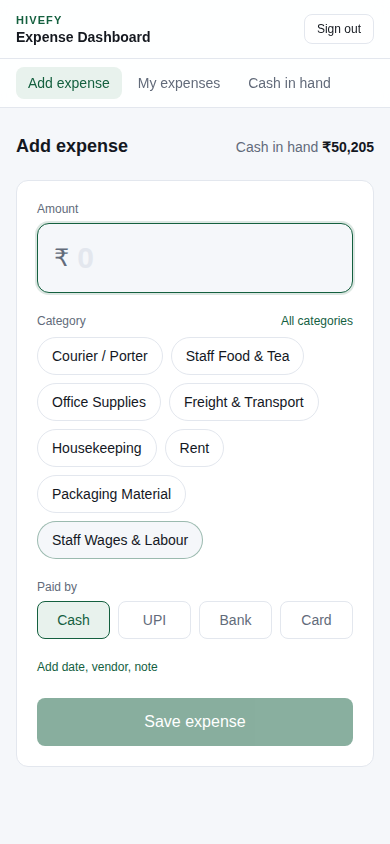
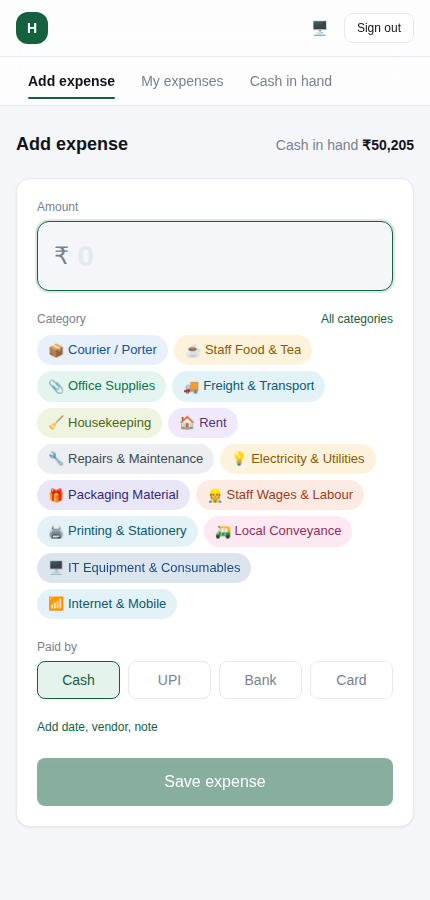
Rank entry categories by real usage and make the chips compact
The quick-pick chips were ranked on the signed-in user's own entries from the
last 90 days. After the import those rows belong to the placeholder accounts
the importer created, so a real warehouse or head-office login had no history
of its own and fell back to an arbitrary seed order - which is what made the
picker look unsorted.

Ranking now runs on the whole cost centre's history, with the last 120 days
weighted more heavily than the rest, so the order is useful on first sign-in
and tracks what the team is booking now. Warehouse leads with Courier / Porter
(51 entries), Staff Food & Tea (16), Office Supplies (11); head office leads
with Staff Food & Tea (22), Courier / Porter (8).

The chips are smaller - tighter padding, 13px, single line - so 14 fit in the
space 8 used, and the form still lands on one phone screen with no scrolling.

Claude-Session: https://claude.ai/code/session_01QidiE69ZLWQEvuWqcvgLKn

diff --git a/src/components/EntryForm.tsx b/src/components/EntryForm.tsx
@@ -35,7 +35,7 @@ export default function EntryForm({ categories }: { categories: CatOption[] }) {
 
   const cat = categories.find((c) => c.id === catId);
   const amt = parseFloat(amount) || 0;
-  const quick = useMemo(() => categories.slice(0, 8), [categories]);
+  const quick = useMemo(() => categories.slice(0, 14), [categories]);
 
   const filtered = useMemo(() => {
     const t = q.trim().toLowerCase();
@@ -79,7 +79,7 @@ export default function EntryForm({ categories }: { categories: CatOption[] }) {
         </div>
 
         {!showAll ? (
-          <div className="mt-2 flex flex-wrap gap-2">
+          <div className="mt-2 flex flex-wrap gap-1.5">
             {quick.map((c) => (
               <Chip key={c.id} active={catId === c.id} color={c.color} icon={c.icon}
                     onClick={() => setCatId(c.id)}>{c.name}</Chip>
@@ -89,11 +89,11 @@ export default function EntryForm({ categories }: { categories: CatOption[] }) {
           <div className="mt-2">
             <input value={q} onChange={(e) => setQ(e.target.value)} placeholder="Search category…"
                    className="input mb-3" aria-label="Search category" />
-            <div className="max-h-72 space-y-3 overflow-y-auto pr-1">
+            <div className="max-h-80 space-y-3 overflow-y-auto pr-1">
               {filtered.map(([group, items]) => (
                 <div key={group}>
                   <p className="mb-1.5 text-[11px] font-semibold uppercase tracking-wide text-muted">{group}</p>
-                  <div className="flex flex-wrap gap-2">
+                  <div className="flex flex-wrap gap-1.5">
                     {items.map((c) => (
                       <Chip key={c.id} active={catId === c.id} color={c.color} icon={c.icon}
                             onClick={() => { setCatId(c.id); setShowAll(false); setQ(""); }}>
@@ -198,10 +198,11 @@ function Chip({
       style={active
         ? { background: "var(--chip-solid)", borderColor: "var(--chip-solid)", color: "#fff" }
         : { background: "var(--chip-soft)", borderColor: "transparent", color: "var(--chip-ink)" }}
-      className={`inline-flex items-center gap-1.5 rounded-full border px-3.5 py-2 text-sm font-medium
-                 transition active:scale-[0.97] hover:brightness-95 ${cls}`}>
-      <span aria-hidden className="text-[15px] leading-none">{icon}</span>
-      {children}
+      className={`inline-flex max-w-full items-center gap-1 rounded-full border px-2.5 py-1.5
+                  text-[13px] font-medium leading-tight transition
+                  active:scale-[0.97] hover:brightness-95 ${cls}`}>
+      <span aria-hidden className="text-[13px] leading-none">{icon}</span>
+      <span className="truncate">{children}</span>
     </button>
   );
 }

diff --git a/src/lib/queries.ts b/src/lib/queries.ts
@@ -5,7 +5,15 @@ import { fiscalYear, monthBounds, monthKey, n } from "./money";
 
 export const LIVE = { voidedAt: null };
 
-/** Categories a cost centre may book to, ordered by how often this user picks them. */
+/**
+ * Categories a cost centre may book to, most-used first.
+ *
+ * Ranked on the whole cost centre's history rather than the signed-in user's own,
+ * because a newly added warehouse or head-office account has no history of its
+ * own — the migrated rows belong to the import's placeholder users — and would
+ * otherwise get an arbitrary order until it had built one up. Recent entries
+ * count for more, so the order tracks what the team is actually booking now.
+ */
 export async function entryCategories(userId: string, cc: CostCenter) {
   // UNCLASSIFIED only exists to hold migrated rows; nobody should book to it afresh.
   const cats = await prisma.category.findMany({
@@ -13,17 +21,29 @@ export async function entryCategories(userId: string, cc: CostCenter) {
     orderBy: [{ sortOrder: "asc" }, { name: "asc" }],
   });
 
-  const since = new Date(Date.now() - 90 * 864e5);
-  const freq = await prisma.expense.groupBy({
-    by: ["categoryId"],
-    where: { enteredById: userId, date: { gte: since }, ...LIVE },
-    _count: { _all: true },
-  });
-  const rank = new Map(freq.map((f) => [f.categoryId, f._count._all]));
+  const since = new Date(Date.now() - 120 * 864e5);
+  const [recent, ever] = await Promise.all([
+    prisma.expense.groupBy({
+      by: ["categoryId"],
+      where: { costCenter: cc, date: { gte: since }, ...LIVE },
+      _count: { _all: true },
+    }),
+    prisma.expense.groupBy({
+      by: ["categoryId"],
+      where: { costCenter: cc, ...LIVE },
+      _count: { _all: true },
+    }),
+  ]);
+
+  const recentBy = new Map(recent.map((f) => [f.categoryId, f._count._all]));
+  const everBy = new Map(ever.map((f) => [f.categoryId, f._count._all]));
 
   return cats
-    .map((c) => ({ ...c, uses: rank.get(c.id) ?? 0 }))
-    .sort((a, b) => b.uses - a.uses || a.sortOrder - b.sortOrder || a.name.localeCompare(b.name));
+    .map((c) => {
+      const uses = everBy.get(c.id) ?? 0;
+      return { ...c, uses, score: (recentBy.get(c.id) ?? 0) * 3 + uses };
+    })
+    .sort((a, b) => b.score - a.score || a.sortOrder - b.sortOrder || a.name.localeCompare(b.name));
 }
 
 /** Spend against each category's monthly budget, for the given month and cost centre. */

diff --git a/scripts/dev/entry-e2e.ts b/scripts/dev/entry-e2e.ts
@@ -1,0 +1,48 @@
+import { chromium } from "playwright";
+import { PrismaClient } from "@prisma/client";
+const prisma = new PrismaClient();
+const BASE = "http://localhost:3111";
+
+async function main() {
+  const b = await chromium.launch({ executablePath: "/opt/pw-browsers/chromium" });
+  const errs: string[] = [];
+
+  for (const [who, email, cc] of [
+    ["warehouse", "wh@araviorganic.com", "WH"],
+    ["head office", "ho@araviorganic.com", "HO"],
+  ] as const) {
+    const p = await b.newPage({ viewport: { width: 430, height: 900 } });
+    p.on("pageerror", (e) => errs.push(String(e)));
+    await p.goto(BASE + "/login");
+    await p.fill("#email", email); await p.fill("#password", "Change@123");
+    await p.click("button[type=submit]"); await p.waitForURL("**/entry");
+    await p.waitForTimeout(700);
+
+    // the category chips are the aria-pressed buttons that are not the four payment modes
+    const shown = (await p.locator('button[aria-pressed] > span.truncate').allTextContents())
+      .map((t) => t.trim()).filter(Boolean);
+    console.log(`\n${who} chips (${shown.length}):`);
+    console.log("  " + shown.slice(0, 14).join(" | "));
+
+    const expected = await prisma.expense.groupBy({
+      by: ["categoryId"],
+      where: { costCenter: cc, voidedAt: null },
+      _count: { _all: true },
+      orderBy: { _count: { categoryId: "desc" } },
+      take: 6,
+    });
+    const names: string[] = [];
+    for (const e of expected) {
+      const c = await prisma.category.findUnique({ where: { id: e.categoryId } });
+      if (c && c.code !== "UNCLASSIFIED") names.push(`${c.name} (${e._count._all})`);
+    }
+    console.log("  db most-used:", names.join(" | "));
+
+    if (who === "warehouse") await p.screenshot({ path: "docs/entry-mobile.png" });
+    await p.close();
+  }
+
+  console.log("\npage errors:", errs.length ? errs : "none");
+  await b.close();
+}
+main().catch((e) => { console.error("FAILED:", e.message); process.exit(1); }).finally(() => prisma.$disconnect());
